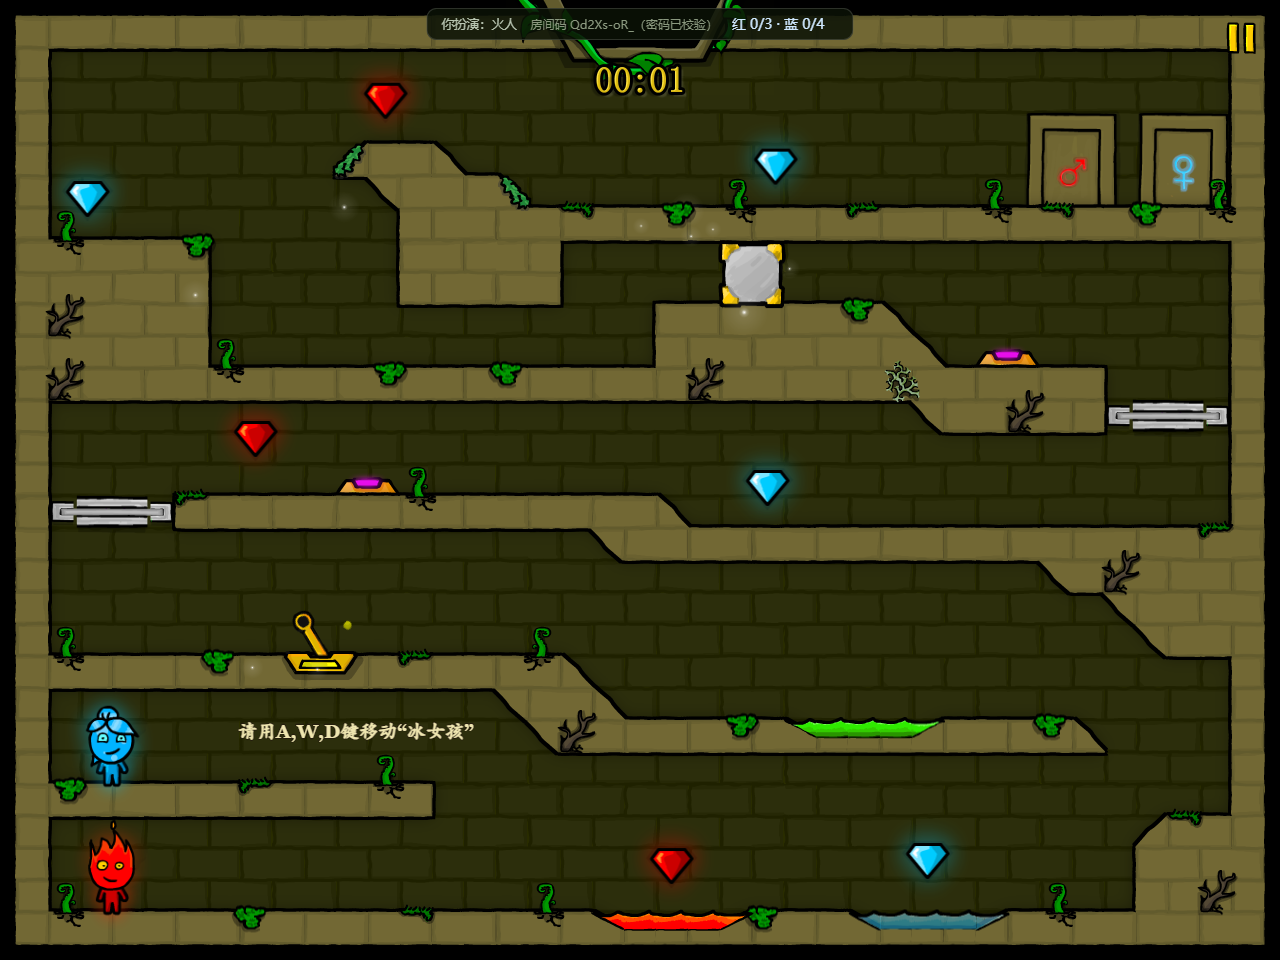
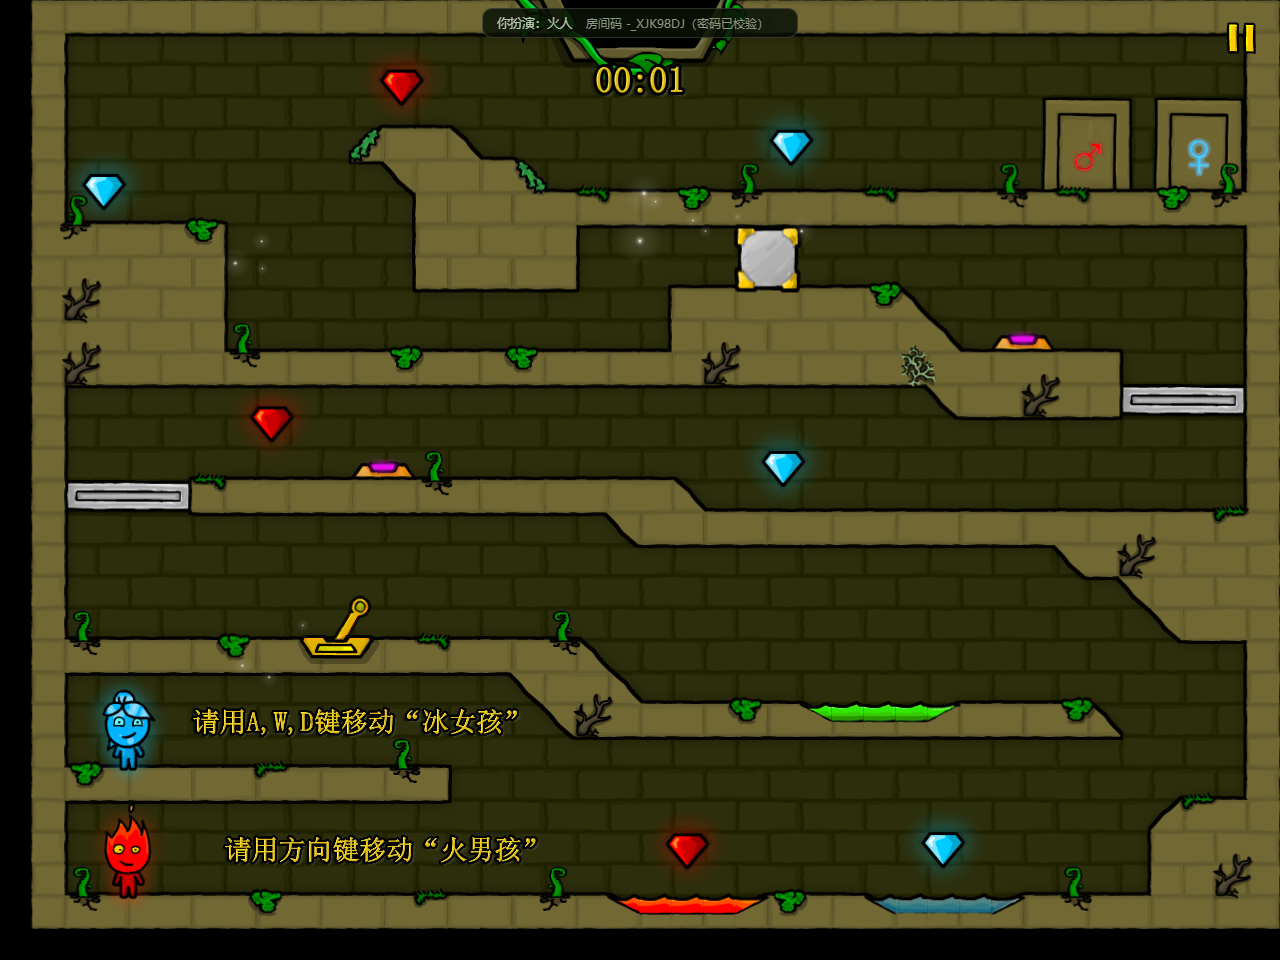
bench(flashvd): visual-diff 新口径重跑——HEAD 291241e 两跑 96.05/95.83（旧基准 95.11，+0.72~0.94 超噪声带）；464a5a9 字号回归经时钟墨迹盒同宽同高实证为应有改善；29931ad 相机口径留 16px 取景偏移（scroll (0,32) vs ≈(16,16)，零偏移 77.6）与时钟锚位 60px 差归产线裁决；报告 note/report/perf/visual-diff-rerun-2026-10-13.md

diff --git a/gyのFW/note/report/perf/visual-diff-rerun-2026-10-13.md b/gyのFW/note/report/perf/visual-diff-rerun-2026-10-13.md
@@ -1,0 +1,104 @@
+# visual-diff 新口径重跑（flashvd 槽，2026-10-13）
+
+## 1. 结论速览
+
+- **新基准分数：96.05 / 95.83（两跑，带宽 0.22）**，对齐 95.11 旧基准为 **+0.72~+0.94**，超出本轮观测噪声。
+- 最优平移两跑均为 **(6,−6)@480**（= 全分辨率 16px 量级取景偏移），95.20（0.3.23，visual-f3.json）时代为 (0,0)——**参照语义确实因 29931ad 相机重做而改变**，重校必要性与任务背景一致。
+- 分数变化的构成（§四逐项）：**464a5a9 字号回归名义值属"本应变化"**（§6 口径：两引擎同名义字号渲染像素相同，本轮时钟墨迹盒两侧同宽同高实证）；**29931ad 相机弹簧钳制引入 16px 取景偏移**（我方 scroll (0,32) vs 原版 ≈(16,16)），被 ±48px 择优对齐掩盖在总分里，零偏移匹配率因此从 92~95 时代跌到 77.6。
+- 时钟锚位另有 **60px 独立差**（我方世界锚定 vs 原版画布顶部锚定），与字号无关，归产线裁决。
+- 无真回归证据：世界内容在对齐后 MAD 仅 1.8~7.6，教学文字（464a5a9 涉及项）与整幅地形同取景偏移、无额外失配。
+
+## 2. 执行口径与环境
+
+- HEAD：`291241e`（含 29931ad 相机 checkBounds 弹簧钳制、464a5a9 字号回归；工作区另有其他槽在产的路由 json，与本基准无关未提交）。
+- 我方构建产物核验（服务端 express 托管 `packages/client/dist`，`packages/server/src/index.ts:123`）：
+  - dist `index-BnZEW__U.js` 含 `"00:00",24`（464a5a9 后字号）且含 `camTX`（29931ad 标识）、无 `setBounds`——dist 与 HEAD 客户端一致，未重建。
+- 端口适配（判定逻辑零改动，仅改副本端口常量与 ROOT）：
+  - 8787/8788 已被其他槽 node 进程占用（PID 33328/21512）→ 脚本自带静态服（保留 output 父目录回退语义，`/multiplayer.js` 必需）改绑 **8791**；现有 8787 服对该文件 404，不等价，不可复用。
+  - 2567 已占 → 我方服务按派发用 **3638**。
+  - 脚本副本：`TEMP/flashvd/visual-diff.mjs`（原文件 `benchmark/visual-diff.mjs` 未动）。
+- 命令（gyのFW 根）：
+  ```
+  export PATH="$PWD/TEMP/node:$PATH"
+  node --import tsx TEMP/flashvd/visual-diff.mjs --save visual-fvd-20261013      # run1
+  node --import tsx TEMP/flashvd/visual-diff.mjs --save visual-fvd-20261013-b    # run2
+  ```
+- 两跑均完整走通：原版侧 tutorials/levels/forest_01.json 就绪后第 60 物理帧截图（1280×960）；我方侧 3638 双浏览器入房、started 后 1s 截图（画布 1280×960，FIT 1:1）。
+
+## 3. 新旧分数表
+
+| 快照 | 版本/git | 分数(容差48) | 最优平移@480 | 容差24 | 零偏移r48 | 顶部HUD带r48 | 备注 |
+|---|---|---|---|---|---|---|---|
+| visual-r15 | 0.3.15 | 95.06 | (−6,−6) | 92.97% | — | 74.65% | 旧口径末次归档 |
+| visual-f3 | 0.3.23 | 95.20 | **(0,0)** | 93.05% | — | 92.58% | e0d3cdf scroll(16,16) 对齐后 |
+| （0.3.29 发版跑） | 0.3.29 | **95.11** | 未存档 | — | — | — | 仅 release/0.3.29.md:37，无快照 JSON |
+| **visual-fvd-20261013** | 291241e | **96.05** | (6,−6) | 94.36% | 77.58% | 74.87% | 本轮 run1 |
+| **visual-fvd-20261013-b** | 291241e | **95.83** | (6,−6) | 93.72% | 77.64% | 74.89% | 本轮 run2 |
+
+- MAD（平均|Δ|灰度）：5.57 / 5.90。最差区块两跑一致：(5,0) 72%、(6,0) 78%、(11,0) 84%、(4,0) 87~88%、(7,0) 88%——全在顶行（HUD 带）。
+- 噪声：两跑带宽 0.22，窄于 0.3.19 时代 idle 相位噪声带 94.36-94.97（带宽 0.61，bench README §渲染细节批）；对 95.11 的 +0.72~+0.94 在带宽之外。
+
+## 4. 逐项差异解释（按 20 号档 §6 口径）
+
+### 4.1 字号（464a5a9）——"本应变化"项，方向为改善
+
+本轮实测时钟金色数字墨迹盒（金色像素 R>180,G>140,B<120 扫描，(540..760, 0..130) 区域）：
+
+| | x 范围 | y 范围 | 墨迹宽×高 |
+|---|---|---|---|
+| 原版 | 597-681 | 7-31 | 84×24 |
+| 我方 | **597-681（同）** | 67-91 | **84×24（同）** |
+
+- 同宽同高 = 同名义字号渲染像素相同（§6 结论 fontSize/48 缩放律）在本轮数据上直接成立；x 范围逐像素一致还说明字号之外的步进/落位也一致。
+- 反证：0.3.29 发版跑（95.11）时我方时钟是 38 号（24×1.6，464a5a9 diff 删除项），墨迹高应为 ~38px vs 原版 24px——该轮字形区匹配率被口径错误压低。**95.11 → 96 的上升量中，这是"按 §6 本应变化"的部分**。
+- 教学文字（464a5a9 另一涉及面）特征探针：`tutorial-wg-text` 局部最优偏移 (16,−16)、MAD 6.52——与整幅地形完全同偏移、无独立失配，名义字号下文字落位正确。
+
+### 4.2 相机（29931ad）——参照语义变化，留 16px 取景偏移待产线裁决
+
+多区域局部最优偏移探针（灰度 ±40px 整数搜索，run1 两图，正值=我方内容相对原版向该轴正向平移）：
+
+| 区域 | 偏移 (ox,oy) | 对齐后 MAD |
+|---|---|---|
+| center-bricks (640,430) | (16,−16) | 5.96 |
+| topleft-corner (90,90) | (19,−13) | 3.54 |
+| bottom-bricks (640,890) | (16,−17) | 7.55 |
+| door-fb (1070,155) | (16,−15) | 4.20 |
+| tutorial-wg-text (340,745) | (16,−16) | 6.52 |
+| lever (330,640) | (16,−16) | 1.82 |
+| clock (640,30) | (0,0)* | 25.64 |
+| pause-btn (1245,30) | (37,−18) | 16.83 |
+
+\* 时钟不随世界偏移（见 4.3），该格大部分是背景，(0,0) 无意义。
+
+- **世界内容呈刚体 (右16, 上15~17) 偏移**，与基准最优平移 (6,−6)@480（= 16px 级）互为独立测量吻合。
+- 边缘扫描 + 3x 裁剪目检（`TEMP/flashvd/run1/leftedge-*.png`、`door-*.png`，清理前可复核）：我方左黑边 31-32px vs 原版 18px；门框我方高 ~15px 右移 ~17px。
+- 机制假设（数字自洽，供产线用 camtrace 裁决，非本槽终判）：
+  - `GameScene.ts`：`PAD=32`（L36）→ 世界 = 关卡+2×32 = 1312×992；视口 1280×960 → checkBounds 钳制盒 [640..672]×[480..512]（L988）。弹簧目标 = 玩家中点+PAD（L979），forest_01 出生构型下被钳到角 **(640,512)** → scroll = (0,32) → 关卡画在屏 (32,0)：与实测左缘 31-32、底缘 928（=960−32）吻合。
+  - 原版 f60 实测关卡在屏 (18,18)、底缘 941（≈946−阈值削边）→ scroll ≈ (14,14)，即**仍钉在世界中心**（中心 656,496 → scroll (16,16)）。
+  - 两侧 scroll 差 (−16,+16) → 内容偏移 (右16,上16)，与特征探针精确一致。
+  - f3 时代 (0,0) 的来历：e0d3cdf 显式 `scroll=(16,16)` 对齐原版 `stage=level+16`；29931ad 换成弹簧+钳制后，出生构型的钳制角目标使 scroll 落到 (0,32)，对齐被破坏 16px。
+- 分数学影响：零偏移 r48 仅 77.6%（f3 时代该口径 ~95），择优对齐后 96.05——**总分指数对这项系统性偏移近乎失明**（±48 搜索吞掉了它），读数时必须连带看零偏移列。
+
+### 4.3 顶部 HUD 带 74.87%（f3 时代 92.58%）——三因叠加，非新回归
+
+1. 顶部带按**零偏移**计算（脚本口径），4.2 的 16px 全局偏移全额打进该带 → 主因。
+2. `#hud-top` DOM 条（role/房间码，fixed top:8px 带面板底）压在画布顶部中央，canvas 元素截图连 DOM 覆盖层一起拍——0.3.23 的 index.html 该 CSS 与现版逐字相同（fdb6485 已核），**两时代同在，非本轮引入**；最差格 (5,0)(6,0) 即其位置。
+3. 时钟锚位：我方数字在屏 y 67-91，原版 y 7-31，**恒差 60px**——我方时钟走世界坐标（`bitmapText(clockX, 56,...)` + PAD 世界偏移约定），原版在画布顶部拱饰内；60px ≠ 16px 世界偏移，是独立锚位差。暂停钮探针 (37,−18) 同类（世界偏移+锚位差合成）。归产线裁决。
+
+### 4.4 判定：无真回归证据
+
+地形/门/拉杆/教学文字对齐后 MAD 1.8~7.6、分数 +0.72 以上升、§6 字号项方向为改善——本轮**未发现真回归**；余量全部集中在 4.2 取景偏移与 4.3 HUD 锚位/DOM 覆盖两类系统项。
+
+## 5. 存疑项（如实记录，未擅判）
+
+1. **95.11 无快照 JSON**（仅 release/0.3.29.md:37 的数字），无法与它逐项 diff；逐项对比以 visual-f3.json（95.20，0.3.23）为最近存档锚。
+2. **相机弹簧目标语义差**（钳制角 vs 世界中心）是高自洽假设（四边测量+特征探针+代码行号互锁），但"原版目标点公式"未从 bundle 反汇编确证——终判归 5.3 产线（TEMP/visfix 有 camtrace 工具链）。
+3. **时钟/暂停钮锚位差 60px 级**：20 号档 §1/§4 的对表基于 won 态实拍，idle f60 态的锚位语义本轮才暴露，归产线复核。
+4. **诊断脚本 bug 自录**：`TEMP/flashvd/probe-margin.mjs` 首版轴写反（axis x/y 语义颠倒），其"left/top"原始输出不可直接引用；本报告边缘数据以修正读法（行/列互换后）+ 3x 裁剪目检双重确认为准。探针属诊断件不进 benchmark/，随 TEMP 清理。
+5. 现有 8787 oracle 服缺 `/multiplayer.js` 父目录回退（404），用它跑原版侧会缺脚本——本轮以脚本自带静态服（8791）复现原服务语义；该差异是否影响其他槽的 oracle 会话，未验证。
+
+## 6. 遗留与建议
+
+- `benchmark/README.md` 快照索引表可由主线收编本轮两行（visual-fvd-20261013 / -b，291241e，96.05/95.83，注"新相机口径首批，零偏移 77.6 为相机 16px 取景差待收"）——本槽未动 README。
+- 相机 16px 与时钟锚位两项收口后，建议把"零偏移 r48"纳入基准展示列（对系统性取景差敏感，弥补 ±48 择优的失明）——脚本判定逻辑本槽未改，仅建议。
+- 截图证据已随跑刷新：`benchmark/results/visual-original.png` / `visual-ours.png`（run2）；run1 件在 TEMP/flashvd/run1/（随清理删除，json 快照已存档）。
